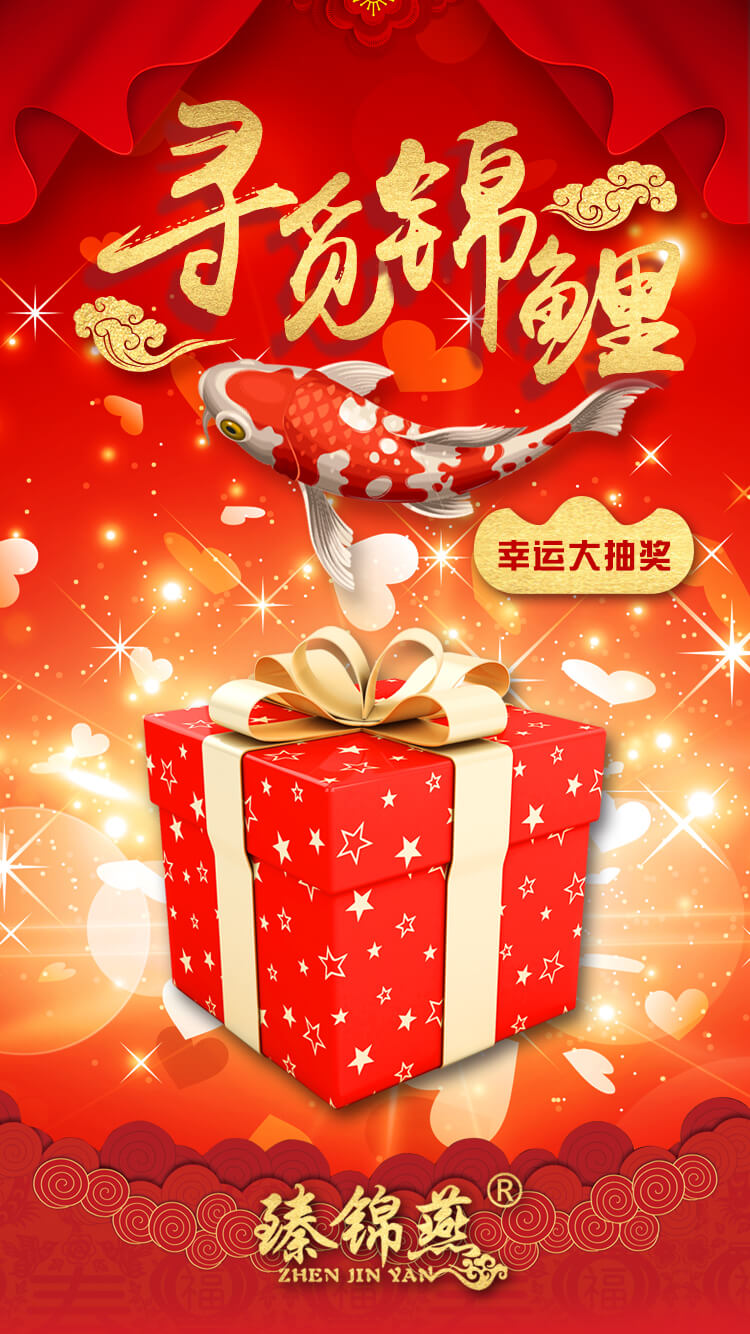
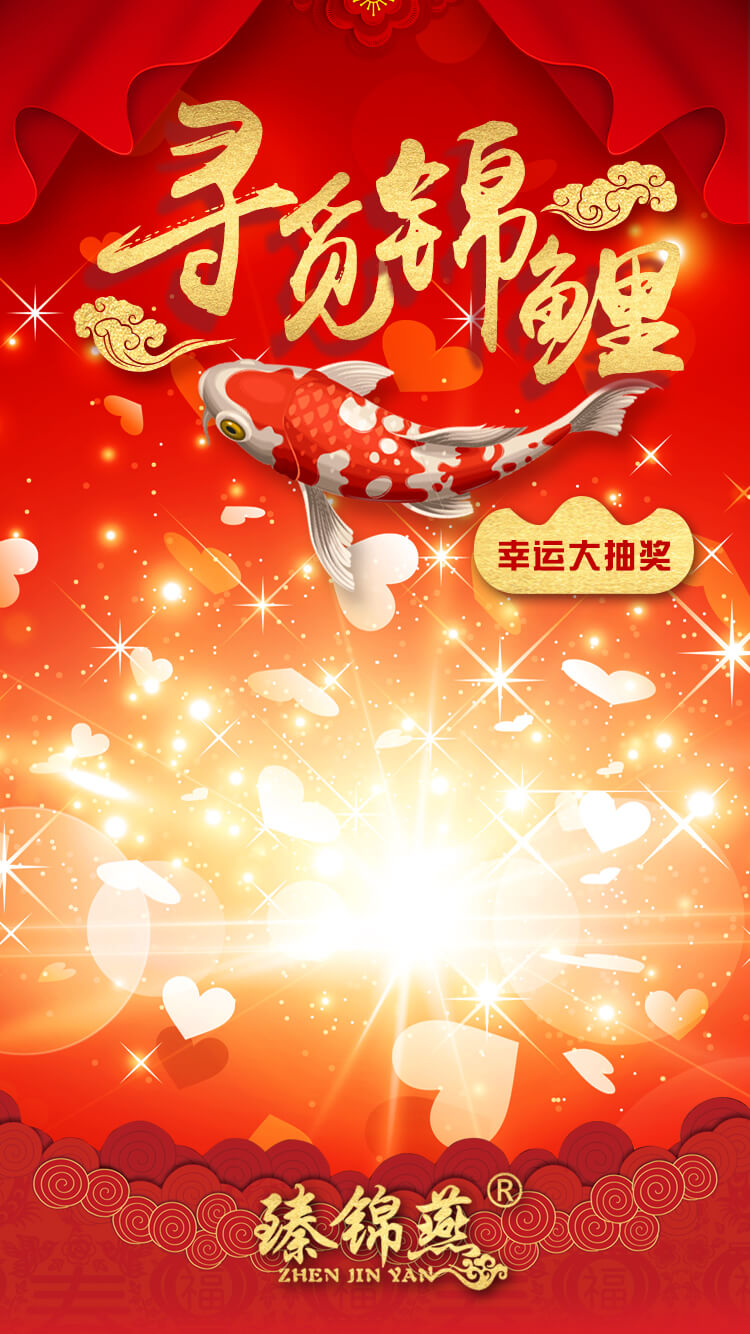
页面优化

Changed region(s): [[0.184, 0.461, 0.828, 0.8606]]

diff --git a/src/pages/luckyDraw/index.vue b/src/pages/luckyDraw/index.vue
@@ -1,20 +1,32 @@
 <template>
   <div class="luckDraw" ref="luckDraw">
+      <transition name="fade">
+        <img src="/static/image/draw-box-small.png" alt="" v-show="showDrawBox">
+      </transition>
+      <transition name="fade">
+        <img src="/static/image/draw-box-big.png" alt="" v-show="!showDrawBox">
+      </transition>
     <div class="button-box" v-if="showBeginToDraw">
         <button class="draw-button" @click="beginDraw()">抽 奖</button>
     </div>
-    <div class="res-box" v-if="showLuckyRes">
-        <img src="/static/image/lucky-word.png" alt="">
-        <img src="/static/image/lucky-expression.png" alt="">
-        <div class="btn-box">
-            <button class="res-btn" @click="completeAddress()">填写奖品邮寄地址</button>
-            <button class="res-btn" @click="showLuckyInfo()">查看中奖信息</button>
+    <transition name="fade">
+      <div class="res-box" v-if="showLuckyRes">
+          <img src="/static/image/lucky-word.png" alt="">
+          <img src="/static/image/lucky-expression.png" alt="">
+          <div class="btn-box">
+              <button class="res-btn" @click="completeAddress()">填写奖品邮寄地址</button>
+              <button class="res-btn" @click="showLuckyInfo()">查看中奖信息</button>
+          </div>
+      </div>
+    </transition>
+    <transition name="fade">
+        <div class="res-box" v-if="showFailRes">
+            <img src="/static/image/fail-word.png" alt="">
+            <img src="/static/image/fail-expression.png" alt="">
         </div>
-    </div>
-    <div class="res-box" v-if="showFailRes">
-        <img src="/static/image/fail-word.png" alt="">
-        <img src="/static/image/fail-expression.png" alt="">
-    </div>
+    </transition>
+
+
   </div>
 </template>
 
@@ -25,7 +37,9 @@ export default {
         clientHeight: '',
         showBeginToDraw: true,
         showLuckyRes: false,
-        showFailRes: false
+        showFailRes: false,
+        showDrawBox: false,
+        timeoutShowDrawBox: null
     }
   },
   components: { // 定义组件
@@ -39,23 +53,37 @@ export default {
         if (this.showBeginToDraw) {
             this.showLuckyRes = true;
             this.showBeginToDraw = !this.showBeginToDraw;
+            clearInterval(this.timeoutShowDrawBox);
+            this.timeoutShowDrawBox = null;
+            this.showDrawBox = null;
             return;
         }
       },
       completeAddress() {
         console.log('填写地址');
-        this.reLaunchPageTo(this.router + 'luckyDrawAddress');
+        this.navigatePageTo(this.router + 'luckyDrawAddress');
       },
       showLuckyInfo() {
         console.log('查看中奖信息');
-        this.reLaunchPageTo(this.router + 'luckyDrawResult');
+        this.navigatePageTo(this.router + 'luckyDrawResult');
       },
+      showDrawBoxInterval() {
+        var self = this;
+        this.timeoutShowDrawBox = setInterval(function() {
+          self.showDrawBox = !self.showDrawBox
+        }, 800);
+      }
   },
   created () { // 生命周期函数
       // console.log('homeroot', this.$root, this.$root.$mp)
   },
+  destroyed() {
+    clearInterval(this.timeoutShowDrawBox);
+    this.timeoutShowDrawBox = null;
+  },
   mounted () {
       this.clientHeight = document.documentElement.clientHeight;
+      this.showDrawBoxInterval();
   },
   watch: {
     clientHeight: function() {
@@ -75,6 +103,9 @@ export default {
 .luckDraw img {
     width: 100%;
     height: 100%;
+    position: absolute;
+    top: 0;
+    left: 0;
 }
 .luckDraw .button-box {
     width: 100%;
@@ -130,5 +161,11 @@ export default {
     font-size: 14px;
     color: #FFFFFF;
     letter-spacing: 0;
+}
+.fade-enter-active, .fade-leave-active {
+    transition: opacity 0.5s;
+}
+.fade-enter, .fade-leave-to {
+    opacity: 0;
 }
 </style>

diff --git a/src/pages/home/index.vue b/src/pages/home/index.vue
@@ -1,5 +1,7 @@
 <template>
     <div class="homePage" ref="homePage">
+        <img src="/static/image/light01.png" alt="" v-show="showLight">
+        <img src="/static/image/light02.png" alt="" v-show="!showLight">
         <img src="/static/image/login-bg.png" alt="">
         <div class="phone-verify">
             <div class="phone-tip">输入手机号，确认抽奖机会</div>
@@ -8,18 +10,6 @@
         </div>
         <van-popup v-model="showFailModal">对不起，您没有资格抽奖</van-popup>
 
-
-         <!--<van-address-edit
-                :area-list="areaList"
-                show-postal
-                show-delete
-                show-set-default
-                show-search-result
-                :search-result="searchResult"
-                @save="onSave"
-                @delete="onDelete"
-                @change-detail="onChangeDetail"
-        /> -->
     </div>
 </template>
 
@@ -31,7 +21,9 @@
                 searchResult: [],
                 clientHeight: '',
                 phone: '',
-                showFailModal: false
+                showFailModal: false,
+                showLight: true,
+                timeoutShowLight: null
             }
         },
         components: { // 定义组件
@@ -39,7 +31,7 @@
         },
         methods: { // 事件处理方法
             gotoLuckyDraw() {
-                this.reLaunchPageTo(this.router + 'luckyDraw')
+                this.navigatePageTo(this.router + 'luckyDraw')
             },
             submit() {
                 if (!this.phone) {
@@ -84,7 +76,16 @@
         },
         mounted() {
             this.clientHeight = document.documentElement.clientHeight;
-            console.log('哈哈', this.clientHeight);
+            var self = this;
+            this.timeoutShowLight = setInterval(function() {
+              self.showLight = !self.showLight;
+            }, 200)
+            
+        },
+        destroyed() {
+          console.log('destroyed');
+          clearInterval(this.timeoutShowLight);
+          this.timeoutShowLight = null;
         },
         watch: {
             clientHeight: function() {
@@ -105,6 +106,9 @@
     .homePage img {
         width: 100%;
         height: 100%;
+        position: absolute;
+        top: 0;
+        left: 0;
     }
     .homePage .phone-verify {
         width: 16rem;

diff --git a/src/pages/countdown/index.vue b/src/pages/countdown/index.vue
@@ -21,7 +21,8 @@
                 clientHeight: '',
                 startTime: '2018.11.11 - 9:00',
                 endTime: '2018.11.12 - 9:00',
-                countDownTime: '10天'
+                countDownTime: '',
+                timer: null
             }
         },
         components: { // 定义组件
@@ -30,7 +31,36 @@
         methods: { 
             getCountDownInfo() {
 
+            },
+          getCountDownTime() {
+            var times = (new Date(2018, 10, 11).getTime() - new Date().getTime())/1000;
+            console.log('哈哈', times);
+            var self = this;
+            this.timer=setInterval(function(){
+              var day=0,
+                hour=0,
+                minute=0,
+                second=0;//时间默认值
+              if(times > 0){
+                day = Math.floor(times / (60 * 60 * 24));
+                hour = Math.floor(times / (60 * 60)) - (day * 24);
+                minute = Math.floor(times / 60) - (day * 24 * 60) - (hour * 60);
+                second = Math.floor(times) - (day * 24 * 60 * 60) - (hour * 60 * 60) - (minute * 60);
+              }
+              if (day <= 9) day = '0' + day;
+              if (hour <= 9) hour = '0' + hour;
+              if (minute <= 9) minute = '0' + minute;
+              if (second <= 9) second = '0' + second;
+              //
+              console.log(day+"天:"+hour+"小时："+minute+"分钟："+second+"秒");
+              self.countDownTime = day+"天"+hour+"小时"+minute+"分钟"+second+"秒";
+              times--;
+            },1000);
+            if(times<=0){
+              clearInterval(this.timer);
             }
+
+          }
 
         },
         created() { // 生命周期函数
@@ -39,6 +69,11 @@
         mounted() {
             this.clientHeight = document.documentElement.clientHeight;
             console.log('哈哈', this.clientHeight);
+            this.getCountDownTime();
+        },
+        destroyed() {
+          clearInterval(this.timer);
+          this.timer = null;
         },
         watch: {
             clientHeight: function() {

diff --git a/src/pages/luckyDrawAddress/index.vue b/src/pages/luckyDrawAddress/index.vue
@@ -9,6 +9,7 @@
                 @save="onSave"
                 @change-detail="onChangeDetail"
         />
+        <div class="btn-box"><button @click="backToLastPage" class="back-btn">返回</button></div>
     </div>
 </template>
 
@@ -33,6 +34,9 @@
             },
             onChangeDetail() {
 
+            },
+            backToLastPage() {
+              this.$router.back();
             }
 
         },
@@ -56,5 +60,17 @@
         box-sizing: border-box;
         border: 1px solid white;
         margin-top: 40px;
+    }
+    .luckyDrawAddress .btn-box {
+        padding: 0 15px;
+        margin-top: -25px;
+    }
+    .luckyDrawAddress .back-btn {
+        width: 100%;
+        height: 40px;
+        font-size: 14px;
+        color: #333;
+        background-color: #fff;
+        border: 1px solid #eee;
     }
 </style>
